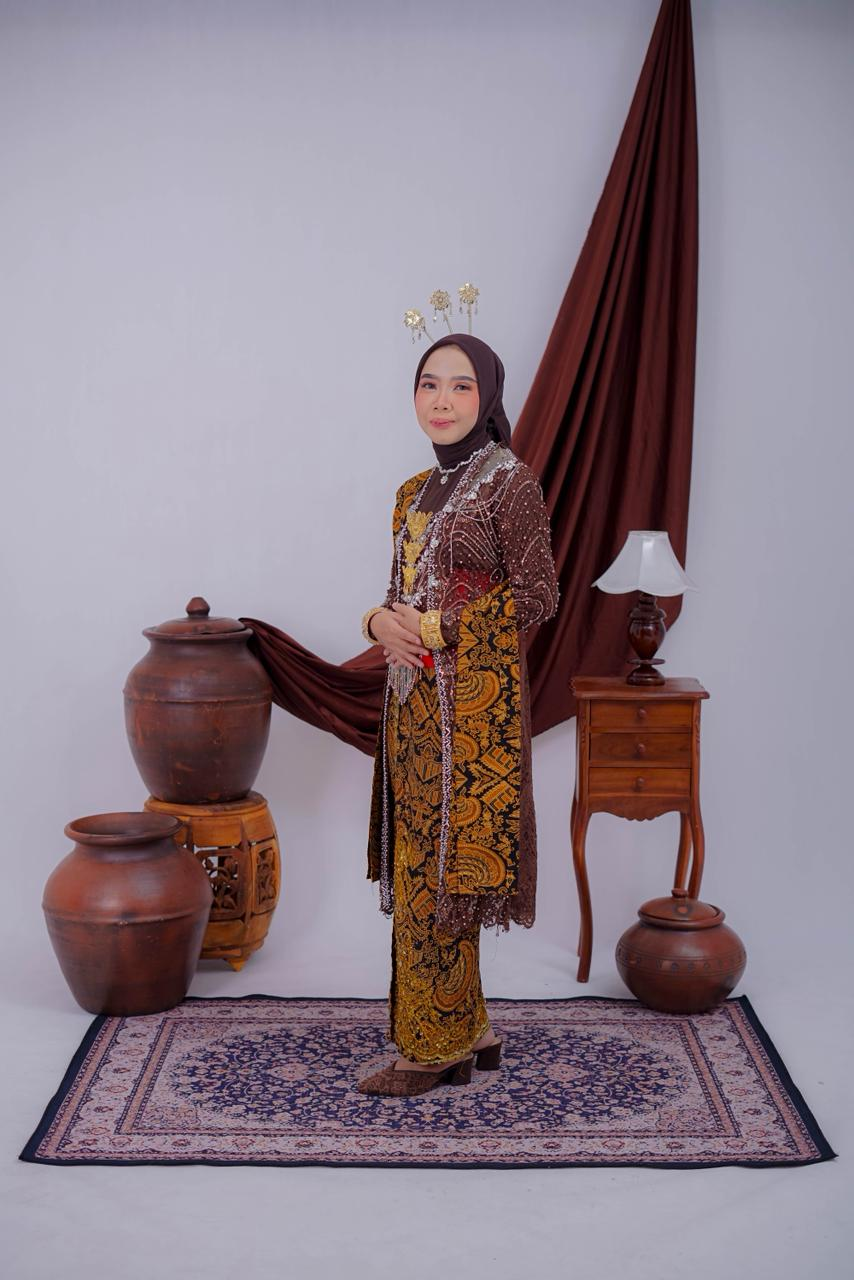
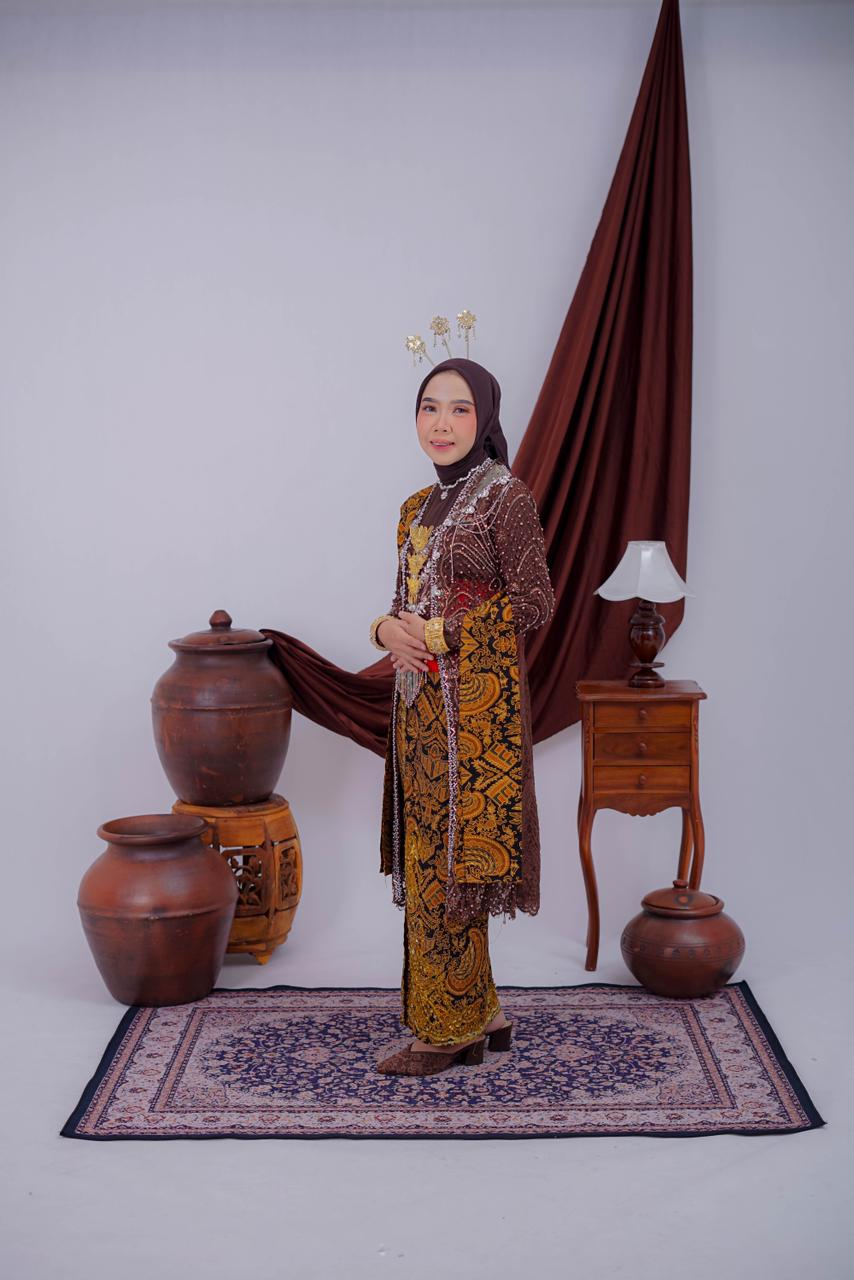
update foto, nama ortu dan penambahan no rek pengantin

Changed region(s): [[0.0304, 0.0, 0.9742, 0.9375]]

diff --git a/src/config/config-ibnu-anih.ts b/src/config/config-ibnu-anih.ts
@@ -13,8 +13,8 @@ const config: InvitationConfig = {
         brideFullNameName: "Anih Handayani",
         parentGroom: "Bapak Sarman & Ibu Wartinah",
         parentGroomDescription: "Putra dari Bapak Sarman & Ibu Wartinah",
-        parentBride: "Bapak ra'i dan Ibu Odah",
-        parentBrideDescription: "Putri dari Bapak ra'i dan Ibu Odah",
+        parentBride: "Bapak Ra'i dan Ibu Odah",
+        parentBrideDescription: "Putri dari Bapak Ra'i dan Ibu Odah",
         coupleImage: "/assets/images/couple-image-ibnu-anih.jpg",
         groomImage: "/assets/images/groom-image-ibnu.jpg",
         brideImage: "/assets/images/bride-image-anih.jpg",
@@ -63,6 +63,12 @@ const config: InvitationConfig = {
                 accountNumber: "1670860686",
                 accountName: "Anih Handayani",
                 waConfirm: "081907863151",
+            },
+            {
+                bank: "BCA",
+                accountNumber: "1670784017",
+                accountName: "Ibnu Malik",
+                waConfirm: "081284157829",
             },
         ],
         sendGifts: [
